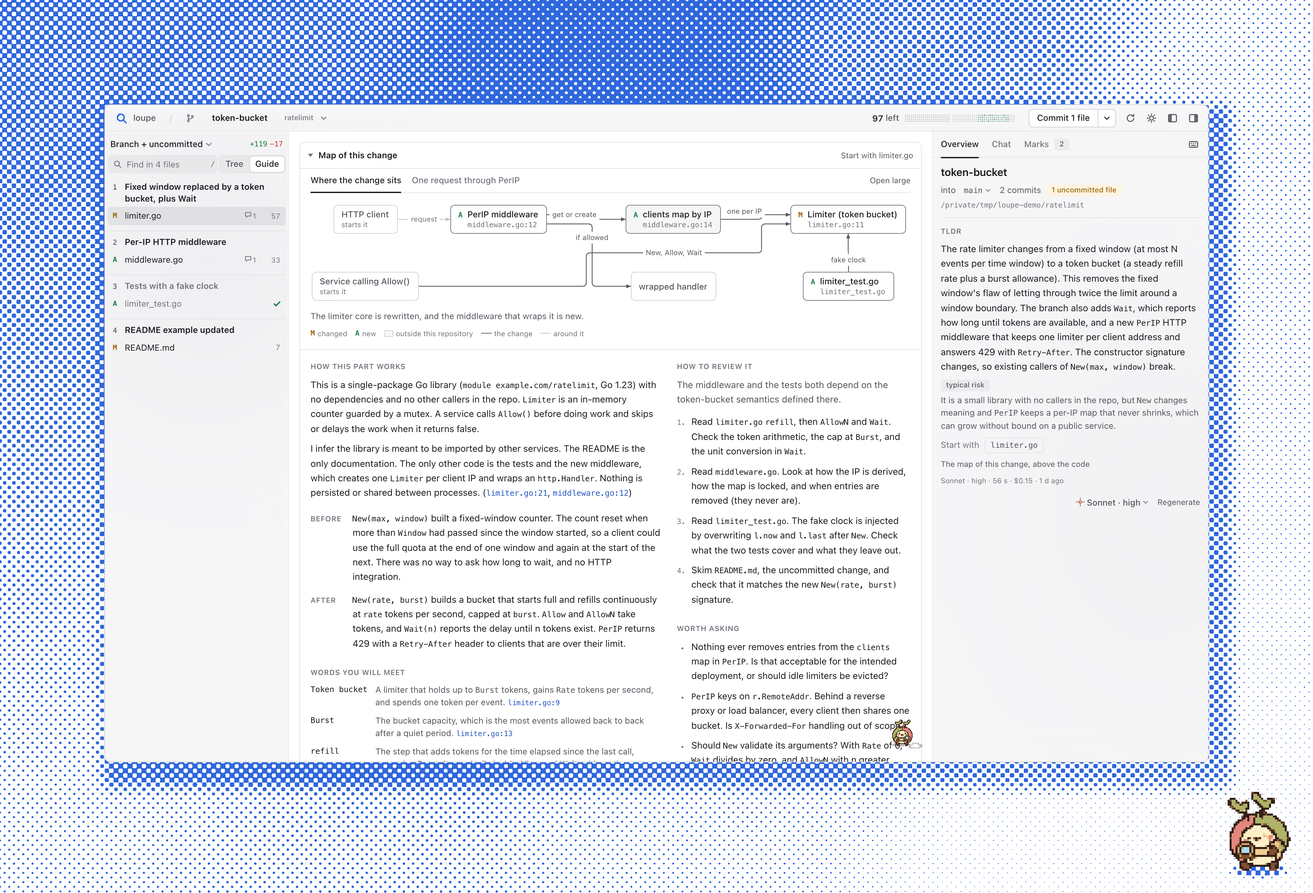
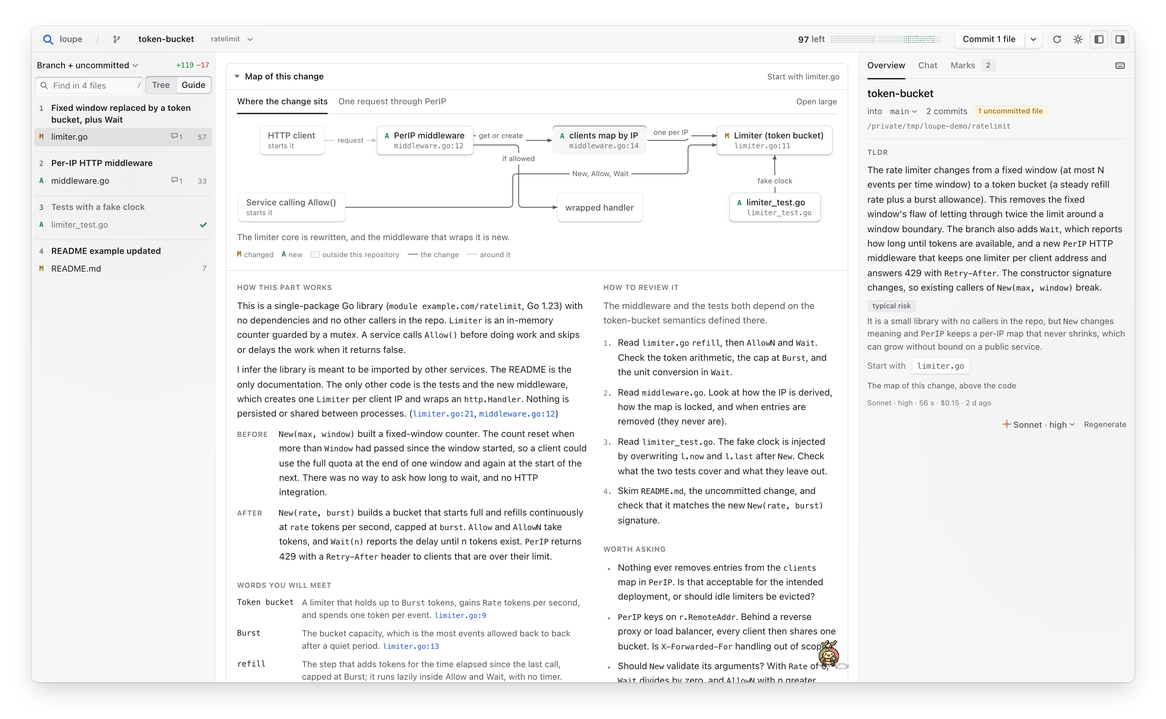
A press pushes a raised control down flush with the page instead of turning it into a dent: its shadow slides under it, its top loses the light, its face dims a touch. Latches (the Files and Inspector toggles, a viewed file's Viewed box) stay held down the same way. README images retaken with the em

Changed region(s): [[0.0, 0.0, 1.0, 1.0], [0.8125, 0.5584, 0.875, 0.5894]]

diff --git a/web/style.css b/web/style.css
@@ -46,6 +46,7 @@
   --lit: #ffffff; --shade: rgba(28, 28, 40, 0.2); --shade-2: rgba(28, 28, 40, 0.075); --shade-3: rgba(28, 28, 40, 0.1);
   --face: color-mix(in srgb, var(--bg) 70%, transparent); --face-hi: var(--bg);
   --floor: color-mix(in srgb, var(--bg) 98%, var(--ink)); /* a well's floor: a hair below the sheet, so it reads pressed in on white */
+  --face-down: color-mix(in srgb, var(--bg) 95%, var(--ink)); /* a plateau pushed down flush: out of the light, a touch dimmer */
   --sheen: inset 0 12px 10px -10px rgba(255, 255, 255, 0.6);
   --ink-lit: rgba(255, 255, 255, 0.22); --ink-shade: rgba(0, 0, 0, 0.5); --ink-sheen: inset 0 12px 10px -10px rgba(255, 255, 255, 0.14);
   --f-ui: -apple-system, BlinkMacSystemFont, "SF Pro Text", "Segoe UI", system-ui, sans-serif;
@@ -73,7 +74,7 @@
   --scrim: rgba(0, 0, 0, 0.5); --scrim-soft: rgba(0, 0, 0, 0.4);
   --tone-ink: #000000;
   --lit: rgba(255, 255, 255, 0.1); --shade: rgba(0, 0, 0, 0.8); --shade-2: rgba(0, 0, 0, 0.5); --shade-3: rgba(0, 0, 0, 0.45);
-  --face: color-mix(in srgb, var(--ink) 5%, var(--bg)); --face-hi: color-mix(in srgb, var(--ink) 8%, var(--bg)); --floor: var(--bg);
+  --face: color-mix(in srgb, var(--ink) 5%, var(--bg)); --face-hi: color-mix(in srgb, var(--ink) 8%, var(--bg)); --floor: var(--bg); --face-down: color-mix(in srgb, var(--ink) 3%, var(--bg));
   --sheen: inset 0 12px 10px -10px rgba(255, 255, 255, 0.05);
   --ink-lit: rgba(255, 255, 255, 0.8); --ink-shade: rgba(0, 0, 0, 0.3); --ink-sheen: inset 0 12px 10px -10px rgba(255, 255, 255, 0.5);
 }
@@ -93,7 +94,7 @@
     --scrim: rgba(0, 0, 0, 0.5); --scrim-soft: rgba(0, 0, 0, 0.4);
     --tone-ink: #000000;
     --lit: rgba(255, 255, 255, 0.1); --shade: rgba(0, 0, 0, 0.8); --shade-2: rgba(0, 0, 0, 0.5); --shade-3: rgba(0, 0, 0, 0.45);
-    --face: color-mix(in srgb, var(--ink) 5%, var(--bg)); --face-hi: color-mix(in srgb, var(--ink) 8%, var(--bg)); --floor: var(--bg);
+    --face: color-mix(in srgb, var(--ink) 5%, var(--bg)); --face-hi: color-mix(in srgb, var(--ink) 8%, var(--bg)); --floor: var(--bg); --face-down: color-mix(in srgb, var(--ink) 3%, var(--bg));
     --sheen: inset 0 12px 10px -10px rgba(255, 255, 255, 0.05);
     --ink-lit: rgba(255, 255, 255, 0.8); --ink-shade: rgba(0, 0, 0, 0.3); --ink-sheen: inset 0 12px 10px -10px rgba(255, 255, 255, 0.5);
   }
@@ -128,7 +129,7 @@ b, strong { font-weight: 600; } /* weights are 400, 500 and 600: the browser's b
 .bar { display: flex; align-items: center; gap: var(--s3); }
 /* a key: a small plateau, its skirt the shade below it; struck, it bottoms out into a well */
 kbd { font: 500 var(--t-mono)/16px var(--f-mono); min-width: 18px; text-align: center; display: inline-block; padding: 0 var(--s2); border: 1px solid transparent; border-bottom: 2px solid var(--shade); border-radius: var(--r1); background: var(--face); color: var(--ink-2); box-shadow: inset 0 1px 0 var(--lit), inset 0 0 0 1px var(--shade-2); }
-kbd.struck { transform: translateY(1px); border-bottom-width: 1px; background: var(--press); color: var(--ink); box-shadow: inset 0 1px 0 var(--shade), inset 0 0 0 1px var(--shade-2); }
+kbd.struck { transform: translateY(1px); border-bottom-width: 1px; background: var(--face-down); color: var(--ink); box-shadow: inset 0 1px 1px var(--shade-3), inset 0 0 0 1px var(--shade-2); }
 .btn kbd.struck { transform: none; border-bottom-width: 1px; background: color-mix(in srgb, currentColor 18%, transparent); opacity: 1; }
 .seg button.struck { background: var(--press); color: var(--ink); }
 .tab.struck { color: var(--ink); }
@@ -147,8 +148,9 @@ kbd.struck { transform: translateY(1px); border-bottom-width: 1px; background: v
   --flat: var(--t0), var(--t0), var(--t0), var(--t0), var(--t0), var(--o0), var(--o0), var(--o0);
   --well: inset 0 1px 0 var(--shade), inset 0 0 0 1px var(--shade-2), inset 0 2px 3px var(--shade-3), var(--t0), var(--t0), 0 1px 0 var(--lit), var(--o0), var(--o0);
   --well-in: inset 0 1px 0 var(--shade), inset 0 0 0 1px var(--ink-3), inset 0 2px 3px var(--shade-3), var(--t0), var(--t0), 0 1px 0 var(--lit), var(--o0), var(--o0);
+  --pressed: inset 0 1px 1px var(--shade-3), inset 0 0 0 1px var(--shade-2), var(--t0), var(--t0), var(--t0), 0 0 0 0 var(--shade), 0 0 1px var(--shade-3), var(--o0);
   --ink-raised: inset 0 1px 0 var(--ink-lit), var(--t0), inset 0 -1px 0 var(--ink-shade), var(--ink-sheen), var(--t0), 0 1px 0 var(--shade), 0 1px 3px var(--shade-3), 0 3px 4px -2px var(--shade-3);
-  --ink-well: inset 0 1px 0 var(--ink-shade), var(--t0), inset 0 2px 3px var(--ink-shade), var(--t0), var(--t0), 0 1px 0 var(--lit), var(--o0), var(--o0);
+  --ink-pressed: inset 0 1px 1px var(--ink-shade), var(--t0), var(--t0), var(--t0), var(--t0), 0 0 0 0 var(--shade), 0 0 1px var(--shade-3), var(--o0);
 }
 /* Four kinds: primary (the act: ink printed on the plateau, a registered emboss), default, ghost (lies flat until the
    pointer lifts it) and danger (default with red text; together with primary, the red fill of a destructive confirm). 28
@@ -160,17 +162,17 @@ kbd.struck { transform: translateY(1px); border-bottom-width: 1px; background: v
    light and shade swap), darkens a step and gives 3%, the way a pushed thing goes away from the eye. Nothing moves
    sideways; the press lands at once and the release eases back. Halves of a split button, segments, tabs and the meter
    only shade, so no seam opens between neighbours. */
-.btn:active, .btn.struck { background: var(--press); transform: scale(0.97); box-shadow: var(--well); transition-duration: 50ms; }
+.btn:active, .btn.struck { background: var(--face-down); transform: scale(0.97); box-shadow: var(--pressed); transition-duration: 50ms; }
 .btn.l:active, .btn.r:active, .btn.l.struck, .btn.r.struck, .btn.tally:active, .btn.tally.struck { transform: none; }
 .btn[disabled] { opacity: 0.45; cursor: default; pointer-events: none; }
 .btn.sm { height: var(--h1); padding: 0 var(--s3); border-radius: var(--r1); }
 .btn.lg { height: var(--h3); }
 .btn.primary { background: var(--act); color: var(--on-act); box-shadow: var(--ink-raised); }
 .btn.primary:hover { background: color-mix(in srgb, var(--act) 86%, var(--bg)); }
-.btn.primary:active, .btn.primary.struck { background: color-mix(in srgb, var(--act) 72%, var(--bg)); box-shadow: var(--ink-well); }
+.btn.primary:active, .btn.primary.struck { background: color-mix(in srgb, var(--act) 90%, var(--bg)); box-shadow: var(--ink-pressed); }
 .btn.ghost { background: none; box-shadow: var(--flat); color: var(--ink-2); }
 .btn.ghost:hover { background: var(--face); box-shadow: var(--raised-soft); color: var(--ink); }
-.btn.ghost:active, .btn.ghost.struck { background: var(--press); box-shadow: var(--well); }
+.btn.ghost:active, .btn.ghost.struck { background: var(--face-down); box-shadow: var(--pressed); }
 .btn.danger { color: var(--danger); }
 .btn.danger.primary { background: var(--danger); color: var(--on-act); }
 .btn.danger.primary:hover, .btn.danger.primary:active, .btn.danger.primary.struck { background: color-mix(in srgb, var(--danger) 86%, var(--bg)); }
@@ -183,14 +185,14 @@ kbd.struck { transform: translateY(1px); border-bottom-width: 1px; background: v
 .btn.primary kbd.struck { box-shadow: inset 0 2px 0 var(--ink-shade), 0 1px 0 var(--ink-lit); color: var(--on-act); background: color-mix(in srgb, var(--on-act) 12%, transparent); }
 .icon { display: inline-grid; place-items: center; width: var(--h2); height: var(--h2); padding: 0; border: 0; border-radius: var(--r2); background: none; box-shadow: var(--flat); color: var(--ink-2); cursor: pointer; flex: none; transition: background 120ms var(--ease), color 120ms var(--ease), box-shadow 140ms var(--ease); }
 .icon:hover { background: var(--face); box-shadow: var(--raised-soft); color: var(--ink); }
-.icon:active, .icon.struck { background: var(--press); box-shadow: var(--well); transition-duration: 50ms; }
+.icon:active, .icon.struck { background: var(--face-down); box-shadow: var(--pressed); transition-duration: 50ms; }
 .icon > svg, .icon > canvas { transition: transform 140ms var(--ease); }
 .icon:active > svg, .icon:active > canvas, .icon.struck > svg, .icon.struck > canvas { transform: scale(0.88); transition-duration: 50ms; } /* the pad stays; its glyph gives */
 .icon[disabled] { opacity: 0.35; pointer-events: none; }
 .layout-toggles { display: inline-flex; gap: var(--s2); }
 .layout-toggles .icon .pn { fill: currentColor; stroke: none; opacity: 0; transition: opacity 120ms var(--ease); }
 .layout-toggles .icon[aria-pressed="true"] .pn { opacity: 0.85; }
-.layout-toggles .icon[aria-pressed="true"] { box-shadow: var(--well); } /* a latch: on stays pushed in */
+.layout-toggles .icon[aria-pressed="true"] { background: var(--face-down); box-shadow: var(--pressed); } /* a latch: on stays held down */
 .icon.sm { width: var(--h1); height: var(--h1); }
 .icon svg { width: 16px; height: 16px; flex: none; }
 /* a link button is a ghost set in its line: flat until the pointer lifts a plate round its words (the plate stands out
@@ -198,7 +200,7 @@ kbd.struck { transform: translateY(1px); border-bottom-width: 1px; background: v
 .link { all: unset; cursor: pointer; color: var(--ink-2); font-size: var(--t-mono); padding: 1px var(--s2); margin: 0 calc(-1 * var(--s2)); border-radius: var(--r1); box-shadow: var(--flat); transition: color 120ms var(--ease), background 120ms var(--ease), box-shadow 140ms var(--ease); }
 .link svg { width: 12px; height: 12px; vertical-align: -2px; }
 .link:hover { color: var(--ink); background: var(--face); box-shadow: var(--raised-soft); }
-.link:active { background: var(--press); box-shadow: var(--well); transition-duration: 50ms; }
+.link:active { background: var(--face-down); box-shadow: var(--pressed); transition-duration: 50ms; }
 .link.danger:hover { color: var(--danger); }
 .link.danger:active { color: color-mix(in srgb, var(--danger) 80%, var(--ink)); } /* on the press fill, still 4.5:1 */
 /* Segmented control: 24 high buttons in a 28 high channel pressed into the sheet; the chosen one stands in it. */
@@ -208,12 +210,12 @@ kbd.struck { transform: translateY(1px); border-bottom-width: 1px; background: v
 .seg button:hover { color: var(--ink); }
 .seg button[disabled] { opacity: 0.4; cursor: default; }
 .seg button[aria-pressed="true"] { background: var(--face); color: var(--ink); box-shadow: var(--raised-soft); }
-.seg button:is(:active, .struck) { background: var(--press); color: var(--ink); box-shadow: var(--well); } /* after the chosen one: a key can strike the segment already chosen */
+.seg button:is(:active, .struck) { background: var(--face-down); color: var(--ink); box-shadow: var(--pressed); } /* after the chosen one: a key can strike the segment already chosen */
 /* Pill: a state you only read. Neutral, or tinted ok (passing), warn (changed, risk) or danger (failing, closed). */
 .pill { display: inline-flex; align-items: center; gap: var(--s2); height: 18px; padding: 0 var(--s3); border-radius: var(--r1); font-size: var(--t-meta); font-weight: 500; color: var(--ink-2); background: var(--hover); box-shadow: inset 0 1px 0 var(--shade-2); white-space: nowrap; border: 0; font-family: inherit; }
 button.pill { cursor: pointer; box-shadow: var(--raised-soft); transition: box-shadow 140ms var(--ease); } /* a status you can press stands up like a chip */
 button.pill:hover { box-shadow: var(--raised); }
-button.pill:active { box-shadow: var(--well); transition-duration: 50ms; }
+button.pill:active { box-shadow: var(--pressed); transition-duration: 50ms; }
 .pill.ok { color: color-mix(in srgb, var(--ok) 78%, var(--ink)); background: color-mix(in srgb, var(--ok) 12%, transparent); }
 .pill.warn { color: var(--warn); background: var(--warn-tint); }
 .pill.danger { color: color-mix(in srgb, var(--danger) 80%, var(--ink)); background: color-mix(in srgb, var(--danger) 12%, transparent); }
@@ -255,7 +257,7 @@ input[type="checkbox"] { accent-color: var(--act); margin: 0; }
 .toast canvas.tx { flex: none; margin-right: calc(var(--s2) - var(--s4)); } /* a failure's cross, 8 px from its words */
 .toast .tb { border: 0; background: none; color: inherit; font: inherit; font-weight: 500; text-decoration: underline; text-underline-offset: 2px; cursor: pointer; padding: 0 var(--s2); margin: 0 calc(-1 * var(--s2)); border-radius: var(--r1); box-shadow: var(--flat); transition: background 120ms var(--ease), box-shadow 140ms var(--ease); }
 .toast .tb:hover { background: color-mix(in srgb, var(--on-act) 10%, transparent); box-shadow: var(--ink-raised); }
-.toast .tb:active { box-shadow: var(--ink-well); transition-duration: 50ms; }
+.toast .tb:active { box-shadow: var(--ink-pressed); transition-duration: 50ms; }
 
 /* ---------------------------------------------------------------- the frame: top bar / bin | diff | inspector */
 .app { position: relative; display: grid; grid-template-rows: var(--bar) minmax(0, 1fr); height: 100vh; isolation: isolate; }
@@ -378,15 +380,15 @@ input[type="checkbox"] { accent-color: var(--act); margin: 0; }
 .fh [data-cc] svg { width: 12px; height: 12px; }
 .fh .stat { font: var(--t-mono) var(--f-mono); display: inline-flex; gap: var(--s3); font-variant-numeric: tabular-nums; flex: none; }
 .viewedbox { min-width: 88px; user-select: none; } /* wide enough for Changed, so the button and the ... beside it keep their columns down the page whichever state a file is in */
-.scopebtn:active { background: var(--press); box-shadow: var(--well); }
+.scopebtn:active { background: var(--face-down); box-shadow: var(--pressed); }
 .viewedbox .box { width: 14px; height: 14px; border: 1px solid var(--ink-3); border-radius: var(--r0); display: grid; place-items: center; transition: background 120ms var(--ease), border-color 120ms var(--ease); }
 .viewedbox .box canvas { opacity: 0; transition: opacity 120ms var(--ease); }
 /* the control keeps one shape; the state is the box (empty, green tick, grey tick when counted) and, for a file that changed since,
    the word Changed in amber. The label does not also turn green, and the border does not also come and go. */
 .file.viewed .viewedbox .box { background: var(--ok); border-color: var(--ok); }
-.viewedbox[aria-pressed="true"] { background: none; box-shadow: var(--well); color: var(--ink-2); } /* a latch: viewed stays pushed into the page */
-.viewedbox[aria-pressed="true"]:hover { background: var(--hover); box-shadow: var(--well); }
-.viewedbox[aria-pressed="true"]:is(:active, .struck) { background: var(--press); box-shadow: var(--well); }
+.viewedbox[aria-pressed="true"] { background: var(--face-down); box-shadow: var(--pressed); color: var(--ink-2); } /* a latch: viewed stays held down */
+.viewedbox[aria-pressed="true"]:hover { background: var(--face-down); box-shadow: var(--pressed); color: var(--ink); }
+.viewedbox[aria-pressed="true"]:is(:active, .struck) { background: var(--face-down); box-shadow: var(--pressed); }
 .file.viewed .viewedbox .box canvas { opacity: 1; }
 .file.stale .viewedbox { color: var(--warn); }
 .fb { font: var(--t-code)/20px var(--f-mono); overflow-x: auto; }
@@ -444,7 +446,7 @@ input[type="checkbox"] { accent-color: var(--act); margin: 0; }
 .fb.split, .file:is(.allnew, .allgone) .fb { --gut: 48px; }
 .plus { position: absolute; left: calc(1px - var(--gut)); top: 2px; width: 16px; height: 16px; border: 0; border-radius: var(--r1); background: var(--act); box-shadow: var(--ink-raised); color: var(--on-act); padding: 0; cursor: pointer; opacity: 0; transition: opacity 120ms var(--ease), background 120ms var(--ease), box-shadow 140ms var(--ease); z-index: 2; display: grid; place-items: center; }
 .plus:hover { background: color-mix(in srgb, var(--act) 86%, var(--bg)); }
-.plus:active { background: color-mix(in srgb, var(--act) 72%, var(--bg)); box-shadow: var(--ink-well); transition-duration: 50ms; }
+.plus:active { background: color-mix(in srgb, var(--act) 90%, var(--bg)); box-shadow: var(--ink-pressed); transition-duration: 50ms; }
 .plus svg { width: 12px; height: 12px; }
 .ln:hover .cd:not(.e) .plus, .plus:focus-visible { opacity: 1; }
 /* a hidden mark's pin has that spot (yours or a GitHub thread's): its line keeps the pin, and the number still selects it */
@@ -478,7 +480,7 @@ details.steps .note { margin: var(--s2) 0; font-style: italic; }
 .chip:is(button, [data-act]) { cursor: pointer; }
 code.chip { background: var(--floor); box-shadow: var(--well); } /* only read: pressed into the sheet */
 .chip:is(button, [data-act]):hover { background: var(--face-hi); box-shadow: var(--raised); color: var(--ink); }
-.chip:is(button, [data-act]):active:not(:has(.x:active)) { background: var(--press); box-shadow: var(--well); transition-duration: 50ms; } /* its own ×, pressed, is not the chip */
+.chip:is(button, [data-act]):active:not(:has(.x:active)) { background: var(--face-down); box-shadow: var(--pressed); transition-duration: 50ms; } /* its own ×, pressed, is not the chip */
 .chip span { overflow: hidden; text-overflow: ellipsis; white-space: nowrap; }
 .chip svg { width: 12px; height: 12px; flex: none; }
 .chip .x { all: unset; cursor: pointer; color: var(--ink-3); padding: 1px var(--s2); margin: -1px calc(-1 * var(--s2)) -1px 0; border-radius: var(--r0); transition: color 120ms var(--ease), background 120ms var(--ease); }
@@ -561,7 +563,7 @@ a.loc:focus-visible { outline: 2px solid var(--pencil); }
 /* a long path is cut at its left, so the file and the line it points at stay in view (a bdi isolates the text, so it stays in reading order) */
 .markview .mtitle .loc { all: unset; cursor: pointer; font: var(--t-mono) var(--f-mono); color: var(--ink-2); direction: rtl; text-align: left; overflow: hidden; text-overflow: ellipsis; white-space: nowrap; min-width: 0; padding: 1px var(--s2); margin: 0 calc(-1 * var(--s2)); border-radius: var(--r1); box-shadow: var(--flat); transition: color 120ms var(--ease), background 120ms var(--ease), box-shadow 140ms var(--ease); }
 .markview .mtitle .loc:hover { color: var(--ink); background: var(--face); box-shadow: var(--raised-soft); }
-.markview .mtitle .loc:active { background: var(--press); box-shadow: var(--well); transition-duration: 50ms; }
+.markview .mtitle .loc:active { background: var(--face-down); box-shadow: var(--pressed); transition-duration: 50ms; }
 .quote { display: grid; margin: 0 0 var(--s4); background: var(--bg); font: var(--t-mono)/18px var(--f-mono); cursor: pointer; }
 .quote { transition: box-shadow 140ms var(--ease), border-color 120ms var(--ease); }
 .quote:hover { border-color: transparent; box-shadow: 0 0 0 1px var(--shade-2), 0 1px 0 var(--shade), 0 2px 4px var(--shade-3); }
@@ -592,7 +594,7 @@ a.loc:focus-visible { outline: 2px solid var(--pencil); }
 #mapbig .dgtabs.big button::before { inset: 12px calc(-1 * var(--s3)); } /* inside the dialog's 56 px head, clear of its clipped edge */
 .tab:hover::before, :is(.mapcard, #mapbig) .dgtabs button:where(:not([aria-selected="true"])):hover::before { background: var(--face); box-shadow: var(--raised-soft); }
 .tab:is(:active, .struck), :is(.mapcard, #mapbig) .dgtabs button:is(:active, .struck) { color: var(--ink); } /* on the press plate, 4.5:1 */
-.tab:is(:active, .struck)::before, :is(.mapcard, #mapbig) .dgtabs button:is(:active, .struck)::before { background: var(--press); box-shadow: var(--well); transition-duration: 50ms; } /* after the hover, at its specificity: a press shows while hovered */
+.tab:is(:active, .struck)::before, :is(.mapcard, #mapbig) .dgtabs button:is(:active, .struck)::before { background: var(--face-down); box-shadow: var(--pressed); transition-duration: 50ms; } /* after the hover, at its specificity: a press shows while hovered */
 .tab[aria-selected="true"]::after { content: ""; position: absolute; left: var(--s3); right: var(--s3); bottom: -1px; height: 2px; background: var(--act); border-radius: var(--r0); }
 .pbody { min-height: 0; overflow: auto; }
 .pane { display: grid; grid-template-columns: minmax(0, 1fr); padding: 0 var(--s4) var(--s6); align-content: start; min-width: 0; }
@@ -629,7 +631,7 @@ details.sect[open] > summary.sh::after { transform: none; }
 .prhead .facts .pair .ar { padding: 0 var(--s2); color: var(--ink-3); font-family: var(--f-ui); }
 .prhead .facts .figs { all: unset; cursor: pointer; padding: 1px var(--s2); margin: 0 calc(-1 * var(--s2)); border-radius: var(--r1); box-shadow: var(--flat); transition: color 120ms var(--ease), background 120ms var(--ease), box-shadow 140ms var(--ease); }
 .prhead .facts .figs:hover { background: var(--face); box-shadow: var(--raised-soft); }
-.prhead .facts .figs:active { background: var(--face); box-shadow: var(--well); transition-duration: 50ms; } /* pressed by its well alone: the coloured counts keep their contrast */
+.prhead .facts .figs:active { background: var(--face); box-shadow: var(--pressed); transition-duration: 50ms; } /* pressed by its well alone: the coloured counts keep their contrast */
 .prhead .facts .figs:focus-visible { outline: 2px solid var(--pencil); outline-offset: 1px; }
 .prhead:has(.facts) h1 { margin-bottom: var(--s1); }
 
@@ -668,7 +670,7 @@ details.sect[open] > summary.sh::after { transform: none; }
 .md.dmd .cutrow { margin-top: 0; } /* the block above keeps its own 8 px */
 .md.dmd .cut { all: unset; cursor: pointer; color: var(--ink-2); font-variant-numeric: tabular-nums; padding: 1px var(--s2); margin: 0 calc(-1 * var(--s2)); border-radius: var(--r1); box-shadow: var(--flat); transition: color 120ms var(--ease), background 120ms var(--ease), box-shadow 140ms var(--ease); }
 .md.dmd .cut:hover { color: var(--ink); background: var(--face); box-shadow: var(--raised-soft); }
-.md.dmd .cut:active { background: var(--press); box-shadow: var(--well); transition-duration: 50ms; }
+.md.dmd .cut:active { background: var(--face-down); box-shadow: var(--pressed); transition-duration: 50ms; }
 .md.dmd .cut:focus-visible { outline: 2px solid var(--pencil); outline-offset: 1px; }
 .md.dmd .cut.inlist { margin-left: calc(20px - var(--s2)); } /* its plate's padding taken back, as every link's is */
 @media (prefers-reduced-motion: reduce) { .md.dmd .fold .chev { transition: none; } }
@@ -828,8 +830,8 @@ details.sect[open] > summary.sh::after { transform: none; }
 .top .go:hover .btn.r:not(.primary) { box-shadow: inset 0 1px 0 var(--lit), inset -1px 0 0 var(--shade-2), inset 0 -1px 0 var(--shade-2), var(--sheen), inset 1px 0 0 var(--shade), 0 1px 0 var(--shade), 0 1px 3px var(--shade-3), 0 3px 4px -2px var(--shade-3); }
 .top .go .btn.primary.l { box-shadow: inset 0 1px 0 var(--ink-lit), var(--t0), inset 0 -1px 0 var(--ink-shade), var(--ink-sheen), var(--t0), 0 1px 0 var(--shade), 0 1px 3px var(--shade-3), 0 3px 4px -2px var(--shade-3); }
 .top .go .btn.primary.r { box-shadow: inset 0 1px 0 var(--ink-lit), var(--t0), inset 0 -1px 0 var(--ink-shade), var(--ink-sheen), inset 1px 0 0 var(--ink-shade), 0 1px 0 var(--shade), 0 1px 3px var(--shade-3), 0 3px 4px -2px var(--shade-3); }
-.top .go .btn:is(.l, .r):is(:active, .struck), .top .go:hover .btn:is(.l, .r):not(.primary):is(:active, .struck) { box-shadow: var(--well); }
-.top .go .btn.primary:is(.l, .r):is(:active, .struck) { box-shadow: var(--ink-well); }
+.top .go .btn:is(.l, .r):is(:active, .struck), .top .go:hover .btn:is(.l, .r):not(.primary):is(:active, .struck) { box-shadow: var(--pressed); }
+.top .go .btn.primary:is(.l, .r):is(:active, .struck) { box-shadow: var(--ink-pressed); }
 /* floors: the title keeps its first characters when there is room for them */
 @media (min-width: 1100px) { .wsbtn .t { min-width: 120px; } }
 @media (max-width: 1500px) { .tally .meter { width: 110px; } }
@@ -1117,7 +1119,7 @@ canvas.avatar.bot.in { opacity: 0.6; filter: grayscale(0.6); }
 .marks-hidden .ln.marked:not(.lit) .no:first-child { box-shadow: none; }
 .mpin { position: absolute; left: 1px; top: 2px; display: grid; place-items: center; width: 14px; height: 16px; padding: 0; border: 0; border-radius: var(--r1); background: none; box-shadow: var(--flat); cursor: pointer; transition: background 120ms var(--ease), box-shadow 140ms var(--ease); }
 .mpin:hover { background: var(--face); box-shadow: var(--raised-soft); }
-.mpin.lit, .mpin:active { background: var(--press); box-shadow: var(--well); }
+.mpin.lit, .mpin:active { background: var(--face-down); box-shadow: var(--pressed); }
 .mpin.done { opacity: 0.45; }
 .mpin > svg { width: 12px; height: 12px; color: var(--ink-3); }
 .mpin canvas { display: block; }
@@ -1195,7 +1197,7 @@ canvas.spark.landed { animation: landed 360ms steps(3) 1; }
 .mapcard.shut .mapbody { display: none; }
 .mapcard .mtoggle { all: unset; display: inline-flex; align-items: center; gap: var(--s3); cursor: pointer; font-weight: 600; color: var(--ink); padding: 2px var(--s3); margin: -2px calc(-1 * var(--s3)); border-radius: var(--r1); box-shadow: var(--flat); transition: background 120ms var(--ease), box-shadow 140ms var(--ease); }
 .mapcard .mtoggle:hover { background: var(--face); box-shadow: var(--raised-soft); }
-.mapcard .mtoggle:active { background: var(--press); box-shadow: var(--well); transition-duration: 50ms; }
+.mapcard .mtoggle:active { background: var(--face-down); box-shadow: var(--pressed); transition-duration: 50ms; }
 .mapcard .mtoggle::before { content: ""; width: 0; height: 0; border-left: 4px solid transparent; border-right: 4px solid transparent; border-top: 5px solid var(--ink-3); transition: transform 120ms var(--ease); }
 .mapcard.shut .mtoggle::before { transform: rotate(-90deg); }
 .mapcard .mtoggle:focus-visible { outline: 2px solid var(--pencil); outline-offset: 2px; border-radius: var(--r1); }
@@ -1370,7 +1372,7 @@ body:has(#motedock.flying) .lens:has(.of-mote) { display: none; }
 .scopebar, .scopebar.steps { display: flex; align-items: center; gap: var(--s1); padding: var(--s3) var(--s2) 0; }
 .scopebar .scopebtn { flex: 0 1 auto; width: auto; height: var(--h1); padding: 0 var(--s2); gap: var(--s1); border: 0; border-radius: var(--r1); background: none; box-shadow: var(--flat); color: var(--ink); font-weight: 500; }
 .scopebar .scopebtn:hover { background: var(--face); box-shadow: var(--raised-soft); }
-.scopebar .scopebtn:active { background: var(--press); box-shadow: var(--well); }
+.scopebar .scopebtn:active { background: var(--face-down); box-shadow: var(--pressed); }
 .scopebar .scopebtn:focus-visible { outline: 2px solid var(--pencil); outline-offset: -2px; } /* inset: the relief keeps its shadows */
 .scopebar .what { grid-column: auto; flex: none; margin-left: auto; padding: 0 var(--s2) 0 var(--s3); display: inline-flex; align-items: baseline; gap: var(--s2); font: var(--t-meta)/16px var(--f-mono); color: var(--ink-3); font-variant-numeric: tabular-nums; }
 .scopebar .what .dot { color: var(--ink-3); }
@@ -1385,7 +1387,7 @@ body:has(#motedock.flying) .lens:has(.of-mote) { display: none; }
 .runpick { all: unset; box-sizing: border-box; display: inline-flex; align-items: center; gap: var(--s1); height: var(--h1); padding: 0 var(--s2); border-radius: var(--r1); font: 500 var(--t-ui) var(--f-ui); color: var(--ink-2); white-space: nowrap; cursor: pointer; transition: box-shadow 140ms var(--ease), background 120ms var(--ease), color 120ms var(--ease); }
 .runpick { box-shadow: var(--flat); }
 .runpick:hover { background: var(--face); box-shadow: var(--raised-soft); color: var(--ink); }
-.runpick:active { background: var(--press); box-shadow: var(--well); transition-duration: 50ms; }
+.runpick:active { background: var(--face-down); box-shadow: var(--pressed); transition-duration: 50ms; }
 .runpick:focus-visible { outline: 2px solid var(--pencil); outline-offset: 1px; }
 .runpick svg { width: 12px; height: 12px; flex: none; }
 .runpick canvas.spark { margin: 0 -1px 0 -3px; } /* the sprite's star is 13 of its 16 px: it sits on the label's edge as a 14 px icon would */

diff --git a/extension/options.css b/extension/options.css
@@ -17,7 +17,7 @@
   --ease: cubic-bezier(0.2, 0.7, 0.2, 1);
   /* relief, as in web/style.css: controls are blind-embossed in the sheet, lit from above */
   --lit: #ffffff; --shade: rgba(28, 28, 40, 0.2); --shade-2: rgba(28, 28, 40, 0.075); --shade-3: rgba(28, 28, 40, 0.1);
-  --face: color-mix(in srgb, var(--bg) 70%, transparent); --face-hi: var(--bg); --floor: color-mix(in srgb, var(--bg) 98%, var(--ink));
+  --face: color-mix(in srgb, var(--bg) 70%, transparent); --face-hi: var(--bg); --floor: color-mix(in srgb, var(--bg) 98%, var(--ink)); --face-down: color-mix(in srgb, var(--bg) 95%, var(--ink));
   --sheen: inset 0 12px 10px -10px rgba(255, 255, 255, 0.6);
 }
 @media (prefers-color-scheme: dark) {
@@ -28,7 +28,7 @@
     --pencil: #739dff; --pencil-ink: #8fb0ff;
     --ok: #4fc27f; --warn: #e2b24a; --warn-tint: rgba(226, 178, 74, 0.12); --danger: #ff7b72; --act: #e9e9ee; --on-act: #121216;
     --lit: rgba(255, 255, 255, 0.1); --shade: rgba(0, 0, 0, 0.8); --shade-2: rgba(0, 0, 0, 0.5); --shade-3: rgba(0, 0, 0, 0.45);
-    --face: color-mix(in srgb, var(--ink) 5%, var(--bg)); --face-hi: color-mix(in srgb, var(--ink) 8%, var(--bg)); --floor: var(--bg);
+    --face: color-mix(in srgb, var(--ink) 5%, var(--bg)); --face-hi: color-mix(in srgb, var(--ink) 8%, var(--bg)); --floor: var(--bg); --face-down: color-mix(in srgb, var(--ink) 3%, var(--bg));
     --sheen: inset 0 12px 10px -10px rgba(255, 255, 255, 0.05);
   }
 }
@@ -37,6 +37,7 @@
   --flat: var(--t0), var(--t0), var(--t0), var(--t0), var(--t0), var(--o0), var(--o0), var(--o0);
   --raised: inset 0 1px 0 var(--lit), inset 0 0 0 1px var(--shade-2), inset 0 -1px 0 var(--shade-2), var(--sheen), var(--t0), 0 1px 0 var(--shade), 0 1px 3px var(--shade-3), 0 3px 4px -2px var(--shade-3);
   --raised-soft: inset 0 1px 0 var(--lit), inset 0 0 0 1px var(--shade-2), var(--t0), var(--sheen), var(--t0), 0 1px 0 var(--shade-2), 0 1px 2px var(--shade-3), var(--o0);
+  --pressed: inset 0 1px 1px var(--shade-3), inset 0 0 0 1px var(--shade-2), var(--t0), var(--t0), var(--t0), 0 0 0 0 var(--shade), 0 0 1px var(--shade-3), var(--o0);
   --well: inset 0 1px 0 var(--shade), inset 0 0 0 1px var(--shade-2), inset 0 2px 3px var(--shade-3), var(--t0), var(--t0), 0 1px 0 var(--lit), var(--o0), var(--o0);
   --well-in: inset 0 1px 0 var(--shade), inset 0 0 0 1px var(--ink-3), inset 0 2px 3px var(--shade-3), var(--t0), var(--t0), 0 1px 0 var(--lit), var(--o0), var(--o0);
 }
@@ -73,12 +74,12 @@ kbd { font: 500 var(--t-meta)/14px var(--f-mono); min-width: 16px; text-align: c
 
 .btn { display: inline-flex; align-items: center; justify-content: center; height: var(--h2); padding: 0 var(--s4); border: 1px solid transparent; border-radius: var(--r2); background: var(--face); box-shadow: var(--raised-soft); color: var(--ink); font-weight: 500; white-space: nowrap; cursor: pointer; transition: background 120ms var(--ease), box-shadow 140ms var(--ease), transform 140ms var(--ease); }
 .btn:hover { background: var(--face-hi); box-shadow: var(--raised); }
-.btn:active { background: var(--press); box-shadow: var(--well); transform: scale(0.97); transition-duration: 50ms; }
+.btn:active { background: var(--face-down); box-shadow: var(--pressed); transform: scale(0.97); transition-duration: 50ms; }
 .btn[disabled] { opacity: 0.45; cursor: default; pointer-events: none; }
 .btn.sm { height: var(--h1); padding: 0 var(--s3); border-radius: var(--r1); }
 .link { all: unset; color: var(--pencil-ink); cursor: pointer; padding: 1px var(--s2); margin: 0 calc(-1 * var(--s2)); border-radius: var(--r1); box-shadow: var(--flat); transition: background 120ms var(--ease), box-shadow 140ms var(--ease); }
 .link:hover { background: var(--face); box-shadow: var(--raised-soft); }
-.link:active { background: var(--press); box-shadow: var(--well); transition-duration: 50ms; }
+.link:active { background: var(--face-down); box-shadow: var(--pressed); transition-duration: 50ms; }
 .link:focus-visible { outline: 2px solid var(--pencil); outline-offset: 1px; border-radius: 2px; }
 
 .status { margin: 0; display: flex; align-items: baseline; gap: var(--s3); min-height: 20px; color: var(--ink-2); }
@@ -104,7 +105,7 @@ kbd { font: 500 var(--t-meta)/14px var(--f-mono); min-width: 16px; text-align: c
 .seg button { height: var(--h1); padding: 0 var(--s3); border: 0; border-radius: var(--r1); background: none; color: var(--ink-2); font-weight: 500; white-space: nowrap; cursor: pointer; box-shadow: var(--flat); transition: background 120ms var(--ease), color 120ms var(--ease), box-shadow 120ms var(--ease); }
 .seg button:hover { color: var(--ink); }
 .seg button[aria-pressed="true"] { background: var(--face); color: var(--ink); box-shadow: var(--raised-soft); }
-.seg button:active, .seg button[aria-pressed="true"]:active { background: var(--press); box-shadow: var(--well); transition-duration: 50ms; }
+.seg button:active, .seg button[aria-pressed="true"]:active { background: var(--face-down); box-shadow: var(--pressed); transition-duration: 50ms; }
 
 .note { margin: 0; display: flex; align-items: center; gap: var(--s3); padding: var(--s3); border-radius: var(--r2); background: var(--warn-tint); color: var(--ink-2); font-size: var(--t-meta); }
 .note span { flex: 1; }

diff --git a/docs/COMPONENTS.md b/docs/COMPONENTS.md
@@ -35,7 +35,9 @@ shade, never an outline. One light, from above (the glass's lit top edge, the pr
   can press, a select, a key, the chosen segment, the + that starts a mark, the map's parts); what you write in or only
   read is pressed into it (fields, composers, the draft in the code, a dialog's message box, the palette's field row,
   pills, read-only chips such as a route's branch names, the segmented control's channel, what the map shows outside
-  this repository). Pressing a raised thing pushes it through to a well: its light and shade swap. A latch stays pushed in
+  this repository). Pressing a raised thing pushes it down flush with the sheet, never through it into a dent: its cast slides
+  under it and goes, its top loses the light, its face dims a touch (`--face-down`, `--pressed`; on ink `--ink-pressed`),
+  and it gives to 97%. A latch stays held down
   while it is on: the top bar's Files and Inspector toggles, and a file's Viewed box once the file is viewed.
 - **Ghosts**: everything else you can press lies flat in the page until the pointer lifts it: ghost and icon buttons,
   link buttons (a plate round their words, standing out by its padding so the words keep their place), the model
@@ -54,9 +56,9 @@ shade, never an outline. One light, from above (the glass's lit top edge, the pr
   inside its top wall and a soft fall under it, faint sides, and a lit lip under its foot. Writing in it, its sides go
   to ink-3 (`--well-in`, 4.7:1): that is a field's focus mark, from the pointer or the keyboard alike, so a field takes
   no blue ring.
-- **Ink**: the primary is a registered emboss, ink printed on the plateau (`--ink-raised`, pressed `--ink-well`).
+- **Ink**: the primary is a registered emboss, ink printed on the plateau (`--ink-raised`, pressed `--ink-pressed`).
 - **One list**: the composite reliefs (`--raised`, `--raised-soft`, `--flat`, `--well`, `--well-in`,
-  `--ink-raised`, `--ink-well`, the split button's halves, the draft's landing flash) are the same eight shadows in the
+  `--ink-raised`, `--pressed`, `--ink-pressed`, the split button's halves, the draft's landing flash) are the same eight shadows in the
   same order (five inset: top, sides, foot, sheen, crease; three outer: the cast and its two softenings), unused ones
   transparent (`--t0`, `--o0`), so a press and a hover blend instead of jumping. Smaller marks draw less: a key is two
   inset lines and its skirt, a read-only pill one inset line (a pill you can press stands low, as a chip), a key hint inside a button keeps a half-strength outline (a key
@@ -76,18 +78,18 @@ shade, never an outline. One light, from above (the glass's lit top edge, the pr
   *Ghost*: lies flat in the sheet, `--ink-2`; the pointer lifts it (`--face`, `--raised-soft`). *Danger*: default with
   red text; a destructive confirm is a red plateau. All 28 px (24 in rows, 32 in dialog footers), padding 0 12 (0 8 at
   24), 13 px 500, `--r2` (`--r1` at 24). A key hint is a `<kbd>` inside the button, after the label, pressed into it.
-  *Pressed* (by the pointer, or by its key: `strike.js` gives it `.struck`): pushed through to a well (`--well` on a
-  `--press` fill; a primary `--ink-well` on its ink mixed 72% with the sheet), and it gives to 97%, the way a pushed thing goes away from the eye. It
+  *Pressed* (by the pointer, or by its key: `strike.js` gives it `.struck`): pushed down flush with the sheet (`--pressed` on
+  `--face-down`; a primary `--ink-pressed` on its ink mixed 90% with the sheet), and it gives to 97%, the way a pushed thing goes away from the eye. It
   lands at once (50 ms) and eases back (140 ms). A split button is one plateau scored between its halves (a groove in
   shade); its halves, segments, tabs and the meter only shade, so no seam opens between neighbours.
 - **Icon button**: 28 square (24 compact), `--r2`, 16 px icon in `--ink-2`, flat in the sheet; hover lifts its pad
-  (`--raised-soft`) + ink; pressed, the pad is a well on `--press` and the glyph gives to 88%.
+  (`--raised-soft`) + ink; pressed, the pad goes down flush (`--pressed`) and the glyph gives to 88%.
 - **Key hint** (`kbd`): a keycap, a small plateau whose skirt is two pixels of shade. When its key is pressed it bottoms
-  out on one, into a well, and the control that key drives shows its press, if it is in view (`strike.js`). In a menu
+  out on one, its face dimmed, and the control that key drives shows its press, if it is in view (`strike.js`). In a menu
   or the palette, and in the find field, a key is a plain figure.
 - **Link button** (`.link`): a text action, 12 or 13 px to match its line, `--ink-2`, a ghost: the pointer lifts a
   plate round its words (`--raised-soft`; 4 px of padding with 4 px taken back by margin, so the words keep their place),
-  a press sinks it. Used for actions inside text or section headers ("All", "Rewrite", "Back to this change alone").
+  a press pushes it down flush. Used for actions inside text or section headers ("All", "Rewrite", "Back to this change alone").
 - **Input / select / scope button**: 28 px, `--r2`, padding 0 8, 13 px, no border. An input (and a composer, and a
   dialog's message box) is a well on `--floor`; writing in it, its sides darken (`--well-in`, on the composer and the
   message box while anything in them has focus); that is their focus mark, with no blue ring (with forced colours, which
@@ -96,10 +98,10 @@ shade, never an outline. One light, from above (the glass's lit top edge, the pr
 - **Segmented control**: 24 px buttons inside a 28 px channel pressed into the sheet (`--hover`, `--well`), `--r2`
   channel, `--r1` buttons; the chosen one stands in it (`--face`, `--raised-soft`) with ink text. Same everywhere (verdict, Write/Preview tabs are tabs, not segments).
 - **Tabs**: text, 13 px 500, `--ink-3`; selected ink with a 2 px ink underline. Under the pointer a plate lifts behind
-  the word (28 px in a 40 px tab row; on the map's tabs, 26 px reaching 8 px past the word), pressed a well. Panel tabs,
+  the word (28 px in a 40 px tab row; on the map's tabs, 26 px reaching 8 px past the word), pressed, down flush. Panel tabs,
   Write/Preview and the map's tabs alike; a map tab already chosen does not lift.
 - **Chip** (a value you can act on: an attachment, a branch, a ref): 24 px, `--r1`, a low plateau (`--face`,
-  `--raised-soft`), 12 px; pressed, a well. A head and
+  `--raised-soft`), 12 px; pressed, down flush. A head and
   its base (`branch → main`) wrap as one unit.
 - **Model picker**: the model and effort as words with a chevron (`Sonnet 5.5 · high ⌄`), 24 px, 13 px 500 `--ink-2`, a
   ghost: it lies flat and the pointer lifts it (`--raised-soft`). The spark (the pixel sprite, still: the one spark) only for Claude models. The same drawing in a
